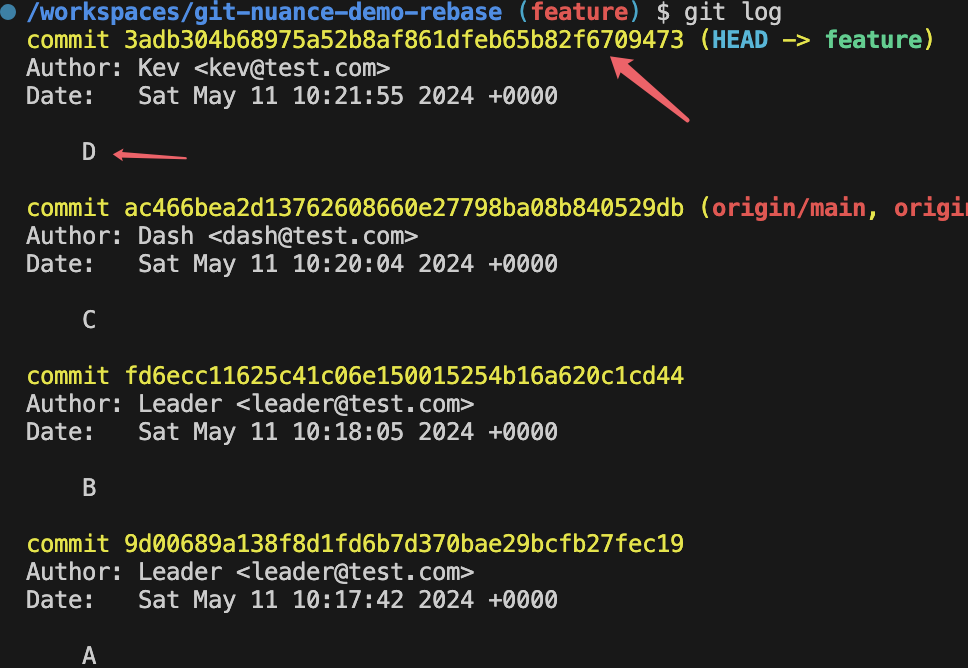
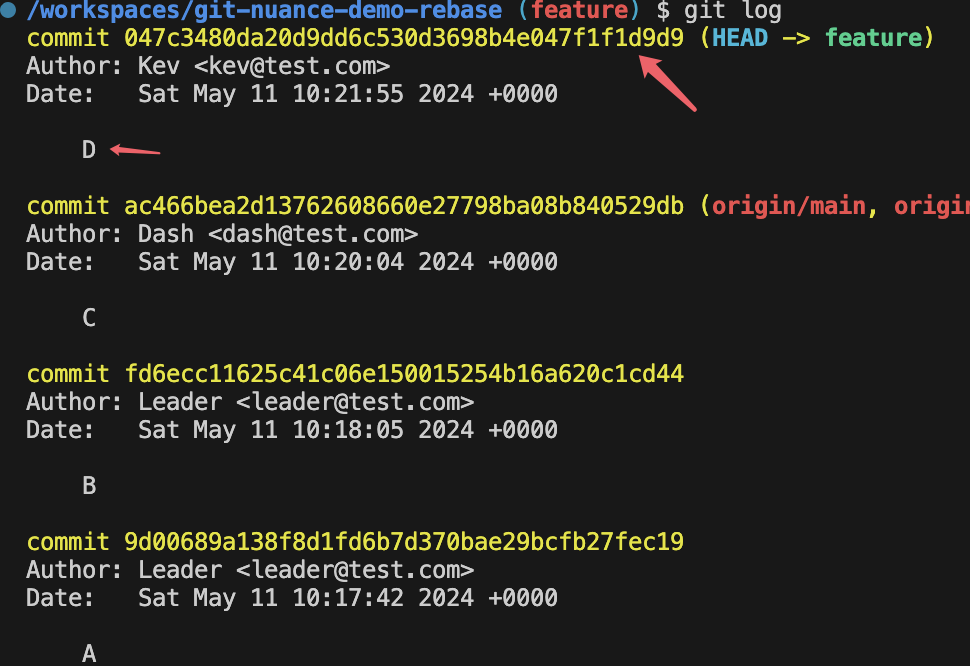
edit demo

diff --git a/README.md b/README.md
@@ -287,7 +287,7 @@ Now the rebase has finished, take a look at the commit history of branch `featur
 
 Pay special attention to the commit ID of `D`.
 
-It's now `3adb304...`, remember what was it before the rebase? It was `58beb1e...`.
+It's now `047c348...`, remember what was it before the rebase? It was `58beb1e...`.
 
 And the changes of this commit.
 
